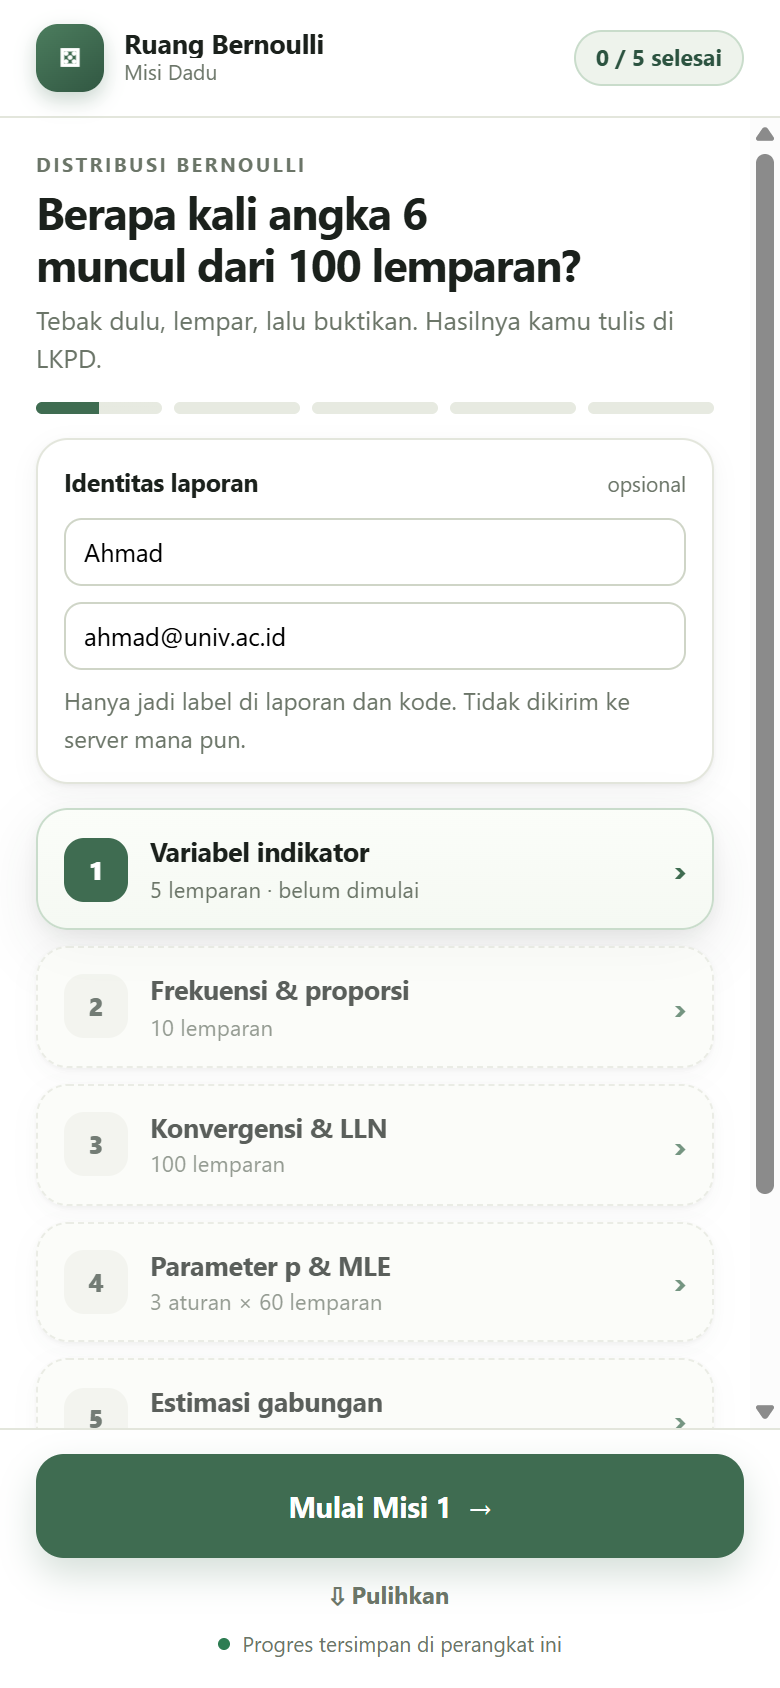
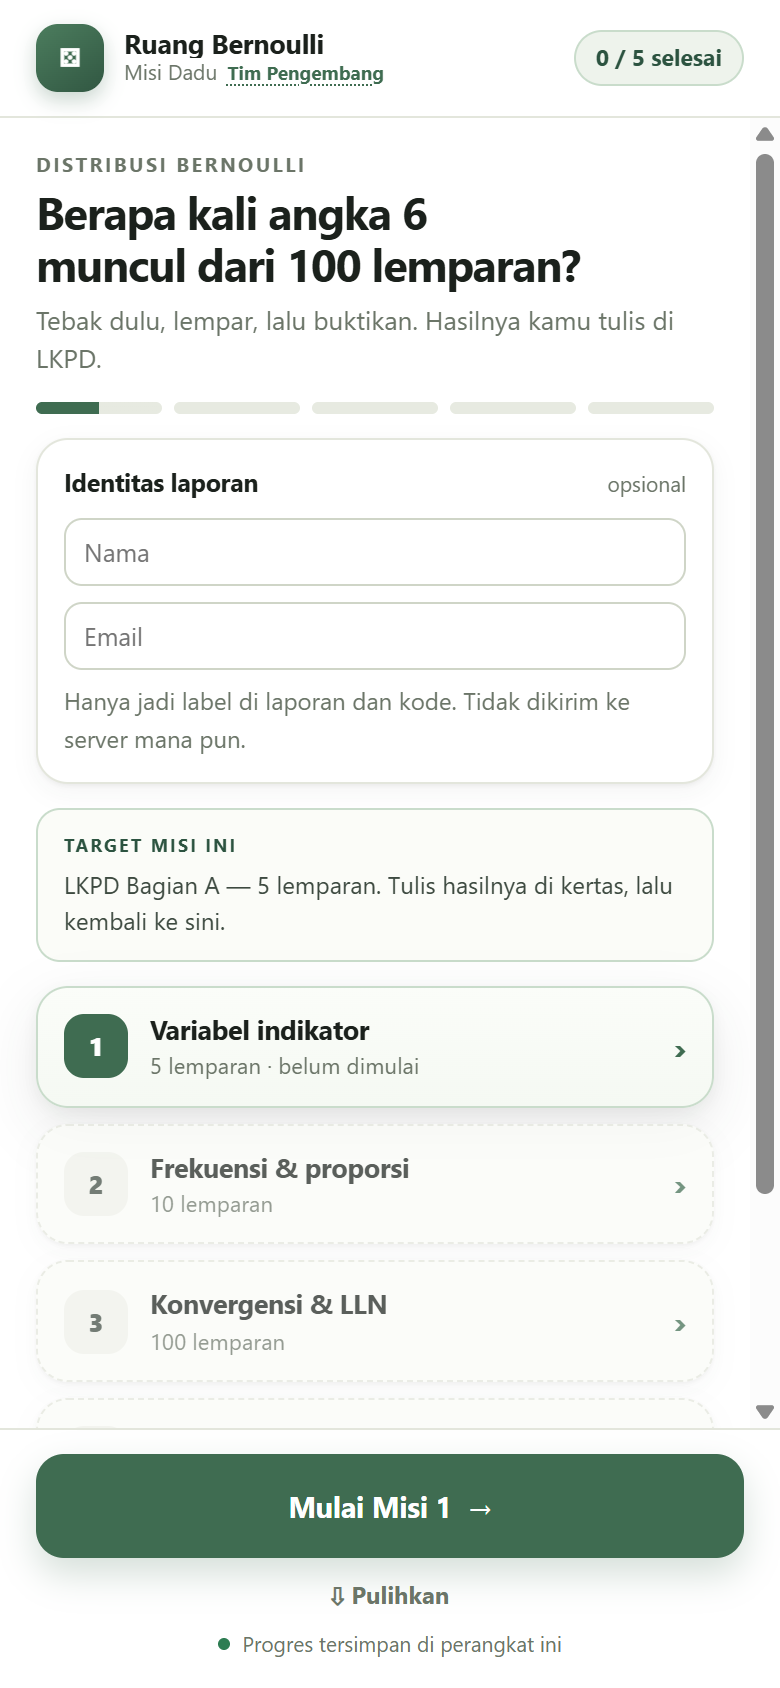
style: kredit tim jadi tautan di header (sebelah 'Misi Dadu'), target misi dipindah ke bawah identitas laporan

diff --git a/src/app.js b/src/app.js
@@ -83,7 +83,9 @@
       left +
       '<div class="brand">' +
       '<div><div class="brand-name">' + (opts.title || "Ruang Bernoulli") + "</div>" +
-      '<div class="brand-sub">' + (opts.sub || "Misi Dadu") + "</div></div>" +
+      '<div class="brand-sub"><span>' + (opts.sub || "Misi Dadu") + "</span>" +
+      '<button class="whoami" data-act="tentang" aria-label="Kredit tim pengembang">Tim Pengembang</button>' +
+      "</div></div>" +
       "</div>" +
       (opts.right || "") +
       "</header>";
@@ -124,12 +126,6 @@
       "<div>LKPD " + esc(S.def(aktif).lkpd) + " — " + esc(S.def(aktif).sub) +
       ". Tulis hasilnya di kertas, lalu kembali ke sini.</div></div>";
 
-    var kredit = '<button class="creditbar" data-act="tentang" aria-label="Kredit tim pengembang">' +
-      '<span class="cb-line"><b>Tim Pengembang: Kelompok 9 Statistika Matematika 2026</b></span>' +
-      '<span class="cb-line">Ahmad As Siddiq · Annisa Putri S. · Fathia Aiva · Sherin Az Zahra</span>' +
-      '<span class="cb-line cb-inst">Program Studi Pendidikan Matematika · FKIP · Universitas Sriwijaya</span>' +
-      "</button>";
-
     var ident = '<div class="panel" id="identCard"><div class="panel-head"><b>Identitas laporan</b><span>opsional</span></div>' +
       '<div class="idrow">' +
       '<input class="inp" data-ident="nama" value="' + esc(state.peserta.nama) + '" placeholder="Nama" aria-label="Nama untuk laporan">' +
@@ -142,11 +138,10 @@
       right: chip(selesai + " / 5 selesai")
     }) +
       '<main class="body">' +
-      kredit +
-      target +
       '<div class="hero"><div class="eyebrow">Distribusi Bernoulli</div>' + judul + sub + "</div>" +
       segbar() +
       ident +
+      target +
       '<div class="mlist">' + list + "</div>" +
       (ui.pesan ? '<div class="toast">✓ <div>' + ui.pesan + "</div></div>" : "") +
       "</main>" +

diff --git a/index.html b/index.html
@@ -37,7 +37,9 @@ button:focus-visible{outline:3px solid var(--accent);outline-offset:2px}
   display:grid;place-items:center;color:var(--ink-2);font-size:15px;flex:0 0 auto}
 .brand{min-width:0;flex:1}
 .brand-name{font-weight:700;font-size:13.5px;letter-spacing:-.01em;line-height:1.15;white-space:nowrap;overflow:hidden;text-overflow:ellipsis}
-.brand-sub{font-size:10.5px;color:var(--muted)}
+.brand-sub{font-size:10.5px;color:var(--muted);display:flex;align-items:center;gap:5px;flex-wrap:wrap}
+.whoami{font-size:9.5px;font-weight:700;color:var(--accent);background:none;border:0;padding:0;
+  text-decoration:underline dotted;text-underline-offset:2px;white-space:nowrap}
 .chip{display:inline-flex;align-items:center;gap:5px;background:var(--accent-soft);color:#2c5340;
   border:1px solid var(--accent-line);border-radius:999px;padding:5px 10px;font-size:11.5px;font-weight:650;white-space:nowrap}
 
@@ -175,11 +177,6 @@ svg{display:block;width:100%;height:auto}
 .b2{background:#fff;border:1px solid var(--line-2);color:var(--ink-2)}
 
 /* ---------- kredit tim ---------- */
-.creditbar{display:block;width:100%;text-align:left;padding:9px 12px;border:1px solid var(--accent-line);
-  background:var(--accent-soft);border-radius:12px;color:#2c5340;line-height:1.5}
-.creditbar .cb-line{display:block;font-size:10.5px}
-.creditbar b{font-weight:750;font-size:11px;letter-spacing:-.005em}
-.creditbar .cb-inst{color:#4d6b57;font-size:10px;margin-top:1px}
 .sheet.tentang{max-width:392px}
 .sheet .divider{height:1px;background:var(--line);margin:12px 0}
 .tim{list-style:none;margin:8px 0 0;padding:0;display:flex;flex-direction:column;gap:7px}
